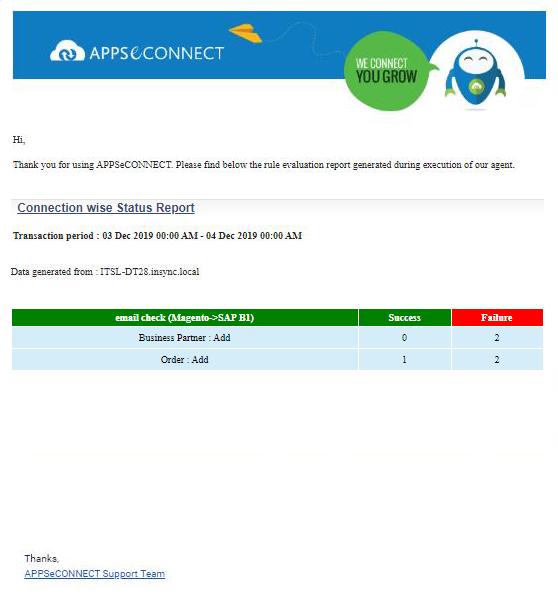
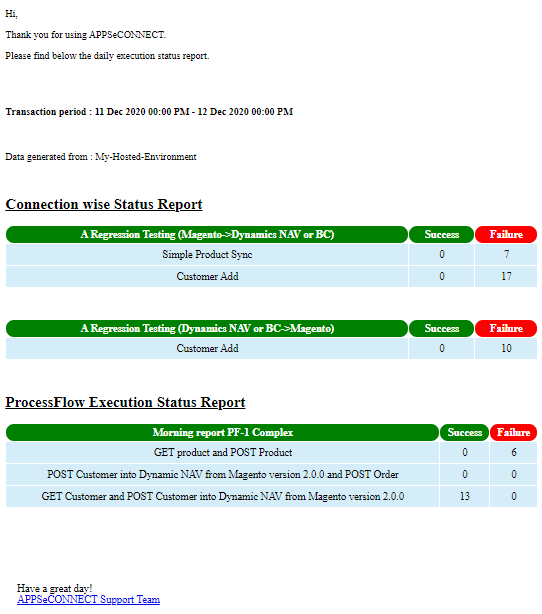
update response node

diff --git a/_posts/ProcessFlow Management/Nodes and Links/2020-12-15-working-with-Return-Response-Node.md b/_posts/ProcessFlow Management/Nodes and Links/2020-12-15-working-with-Return-Response-Node.md
@@ -26,13 +26,11 @@ The return information can be configured according to 2 Responses:
 
 ## Working Principle:
 
-1) Navigate to the designer and drag the Return Response Node to the design panel, available under **Flow Logic**.
-
-![returnresponse1]()
+1) Navigate to the designer and drag the Return Response Node to the design panel, available under **Flow Logic** menu.
 
 2) The Node Configuration Window of the Return Response Node Opens.
 
-![returnresponse2]()
+![returnresponse2](\staticfiles\processflow\media\returnresponse2.PNG)
 
 3) Response node can return Two types of Responses that can be selected using Radio Buttons:
 
@@ -45,7 +43,7 @@ a. On selecting this response type, you get the following field:
 
 - Define Acknowledgement Message: You need to provide a customized information that will be returned as the response.
 
-![returnresponse3]()
+![returnresponse3](\staticfiles\processflow\media\returnresponse3.PNG)
 
 b. Click on the SAVE button, once you provided the customized info.
 
@@ -53,6 +51,21 @@ c. [Design](/processflow/creating-processflow/) your processflow and [Deploy](/p
 
 d. The snapshots will be generated for each execution that will allow you to survey the Data synced and the returned response. You will be able to view the Customized Info provided by the user as Return Response.
 
-![returnresponse4]()
+![returnresponse4](\staticfiles\processflow\media\returnresponse4.PNG)
 
 ### Reponse Type: Output of the Previous Node
+
+a.  On selecting this response type, the Output of the preceeding node will be displayed in the **Transaction file tab** of [snapshot](/processflow/snapshot-processflow/) for the Response Type node.
+
+![responsenode5](\staticfiles\processflow\media\returnresponse5.PNG)
+
+b. Click on the SAVE button, once you provided the customized info.
+
+c. d. The snapshots will be generated for each execution that will allow you to survey the Data synced and the returned response. You will be able to view the the previous node output in Response node transaction file.
+
+![responsenode6](\staticfiles\processflow\media\returnresponse6.PNG)
+
+**Note:**
+
+- You cannot implement Response Node with Start Trigger Type as Polling.
+- You cannot link multiple Response Nodes with each other.

diff --git a/_posts/Rule-Management/DefaultRule/2019-06-21-default-rule-for-morning-report.md b/_posts/Rule-Management/DefaultRule/2019-06-21-default-rule-for-morning-report.md
@@ -18,18 +18,24 @@ on daily basis. The main utility for this report is:
 
 1.	The feature has been implemented in APPSeCONNECT Rule engine, so that rule gets triggered on default scheduled time for all organization users. 
     (00:00 hrs Local Time for OP Agent and UTC Time for Cloud Agent users)
-2.	The report will have the following columns that will display the following details :
+2.  The report will have two sections that would display the execution status for the last 24 hours: 
+    a. Connection Wise Status Report: This section will display the execution reports for sync process implemented using **Workflow**.
+    b. ProcessFlow Execution Status Report: This section will display the execution reports for sync process implemented using **ProcessFlows**
 
+3. **Transaction Period:** Denotes the timespan of data transaction meant for report generation.
+To Cite an example, if the transaction period is from 3.12.2019 - 00.00hrs to 4.12.2019 23.59 hrs (Inclusive of 59th minute)
+
+4. **Data Generated From:** This will enlist your environment name using which the processes are integrated.
+
+The report will have the following columns that will display the following details :
 
 |Column Name|Utility Description |
 |---|---|
+|Connection/ProcessFlow Name| This will display the name of the Connection (Workflow) or ProcessFlow name  that was executed.|
 |Success|These are the Data which is successfully synced within the transaction period|
 |Failure|These are the Data which are unsuccessful within or before the transaction period. |
 
 **Note: Failed data that have been attempted with autosync of resync, for Success, the count would be displayed on the success column on the morning report for the next day.**
-
-Transaction Period: Denotes the timespan of data transaction meant for report generation.
-To Cite an example, if the transaction period is from 3.12.2019 - 00.00hrs to 4.12.2019 23.59 hrs (Inclusive of 59th minute)
 
 ![morning-report](/staticfiles/rules/media/morning-report.png) 
 
